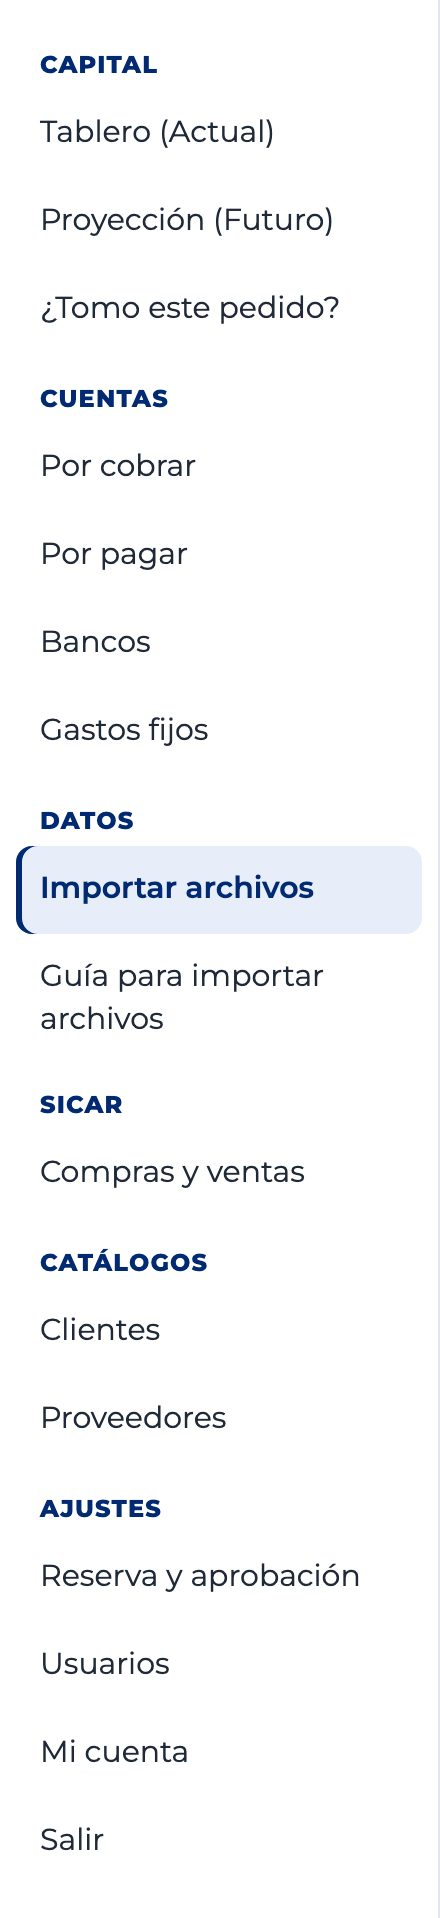
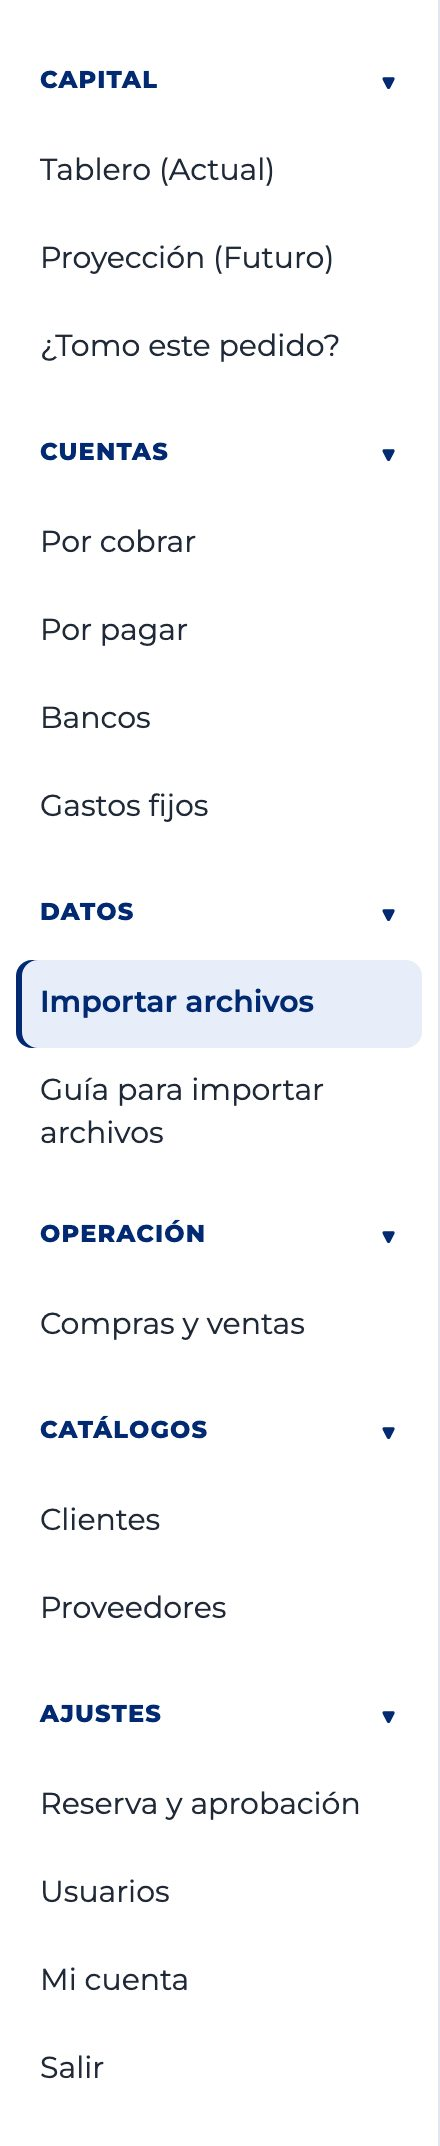
chore(forzza): drop 'Compatible con SICAR' badge; menu group SICAR renamed 'Operación'

diff --git a/verticals/forzza/public/app.js b/verticals/forzza/public/app.js
@@ -211,7 +211,7 @@
     ['grp', 'Capital'], ['tablero', 'Tablero (Actual)'], ['proyeccion', 'Proyección (Futuro)'], ['simular', '¿Tomo este pedido?'],
     ['grp', 'Cuentas'], ['cxc', 'Por cobrar'], ['cxp', 'Por pagar'], ['bancos', 'Bancos'], ['fijos', 'Gastos fijos'],
     ['grp', 'Datos'], ['cargar', 'Importar archivos'], ['url:guia-carga.html', 'Guía para importar archivos'],
-    ['grp', 'SICAR'], ['sicar_resumen', 'Compras y ventas'],
+    ['grp', 'Operación'], ['sicar_resumen', 'Compras y ventas'],
     ['grp', 'Catálogos'], ['clientes', 'Clientes'], ['proveedores', 'Proveedores'],
     ['grp', 'Ajustes'], ['ajustes', 'Reserva y aprobación'], ['usuarios', 'Usuarios'], ['cuenta', 'Mi cuenta']
   ];
@@ -239,7 +239,7 @@
   }
   function shell() {
     $app.innerHTML = `<header class="top"><button class="burger" id="burger" aria-label="Ocultar el menú" aria-expanded="true" title="Ocultar o mostrar el menú"><span class="bi">☰</span><span class="bd">«</span></button>
-      <div class="brand"><img src="logo-blanco.png" alt="Forzza"><small>Capital</small></div><span class="sicar-badge">Compatible con SICAR</span><div class="sp"></div>
+      <div class="brand"><img src="logo-blanco.png" alt="Forzza"><small>Capital</small></div><div class="sp"></div>
       ${canEdit() ? '<a class="btn small hdr-up" href="#cargar">Importar archivos</a>' : ''}<span class="muted" style="font-size:13px">${esc(S.me.user.name || S.me.user.email)}</span></header>
       <div class="layout"><nav class="side" id="side">${menuHtml()}
         <a href="#" id="salir">Salir</a></nav><main id="main"></main></div>`;
@@ -1014,7 +1014,7 @@
       const app = !f.saldo_app ? 'la app aún no tiene sus facturas' : 'en la app: ' + c$(f.saldo_app) + (f.saldo_app !== f.saldo_sicar ? ' · diferencia ' + c$(f.saldo_app - f.saldo_sicar) : ' · coinciden');
       return kpi(lbl + ' según SICAR', c$(f.saldo_sicar), `${venc}${f.personas} personas · importado ${fmtF(f.corte || String(f.fecha).slice(0, 10))} · ${app}`, f.saldo_app === f.saldo_sicar ? 'ok' : (f.vencido_sicar ? 'bad' : ''));
     };
-    main().innerHTML = `<h1>Compras y ventas (SICAR)</h1><p class="sub">Lo importado de SICAR del ${fmtF(r.desde)} al ${fmtF(r.hasta)}. Solo documentos vigentes; las devoluciones restan.${r.ultima_importacion ? ' Última importación: ' + fmtF(String(r.ultima_importacion).slice(0, 10)) + '.' : ''}</p>
+    main().innerHTML = `<h1>Compras y ventas</h1><p class="sub">Lo importado de tu sistema de ventas (SICAR u otro) del ${fmtF(r.desde)} al ${fmtF(r.hasta)}. Solo documentos vigentes; las devoluciones restan.${r.ultima_importacion ? ' Última importación: ' + fmtF(String(r.ultima_importacion).slice(0, 10)) + '.' : ''}</p>
       ${!r.meses.length && !r.conciliacion.cxc && !r.conciliacion.cxp ? '<div class="note">Aún no hay reportes importados. Ve a <a href="#cargar">Importar archivos</a>.</div>' : ''}
       <div class="grid">${kpi('Ventas', c$(tot('ventas')), 'promedio ' + c$(Math.round(tot('ventas') / n)) + ' al mes')}${kpi('Compras de material', c$(tot('compras')), 'promedio ' + c$(Math.round(tot('compras') / n)) + ' al mes')}
         ${kpi('Gastos (GAS)', c$(tot('gastos')), 'promedio ' + c$(Math.round(tot('gastos') / n)) + ' al mes')}${kpi('Cobrado (abonos)', c$(tot('cobrado')), 'según el reporte de abonos')}

diff --git a/verticals/forzza/sit.js b/verticals/forzza/sit.js
@@ -641,7 +641,7 @@ const hoyMx = () => new Date(Date.now() - 6 * 3600 * 1000).toISOString().slice(0
       const appjs = require('fs').readFileSync(require('path').join(__dirname, 'public', 'app.js'), 'utf8');
       const ti = appjs.indexOf("Lo que te deben y lo que debes"), tn = appjs.indexOf('${hallazgosHtml('), tp = appjs.indexOf('<h2>Próximos 14 días');
       ok('tablero: Neural Findings va entre "Lo que te deben" y "Próximos 14 días"', ti > 0 && tn > ti && tp > tn);
-      ok('menú: "Ingresa a SICAR" quitado; la guía para importar está junto a "Importar archivos"', !/\['sicar_web', 'Ingresa a SICAR'\]/.test(appjs) && appjs.indexOf("'url:guia-carga.html'") > appjs.indexOf("['cargar',") && appjs.indexOf("'url:guia-carga.html'") < appjs.indexOf("['grp', 'SICAR']"));
+      ok('menú: "Ingresa a SICAR" quitado; la guía para importar está junto a "Importar archivos"', !/\['sicar_web', 'Ingresa a SICAR'\]/.test(appjs) && appjs.indexOf("'url:guia-carga.html'") > appjs.indexOf("['cargar',") && appjs.indexOf("'url:guia-carga.html'") < appjs.indexOf("['grp', 'Operación']") && !/Compatible con SICAR|\['grp', 'SICAR'\]/.test(appjs));
       { const keys = ['calif', 'liquidez', 'riesgo', 'flujo', 'cartera', 'concentracion', 'efectivo', 'dias', 'p90', 'minimo', 'montecarlo', 'meses', 'categorias', 'calor', 'conc', 'deben', 'dso', 'dpo', 'hallazgos', 'proximos'];
         ok('tablero: cada indicador tiene su nota explicativa y hay botón de imprimir', keys.every((k) => new RegExp('\\b' + k + ": \\['").test(appjs) && (appjs.includes("tip('" + k + "')") || (['liquidez', 'riesgo', 'flujo', 'cartera', 'concentracion'].includes(k) && appjs.includes('tip(p.clave)')))) && /id="imprimir"/.test(appjs) && /print\(\)/.test(appjs));
         ok('tablero: la parte de la calificación ya no muestra la regla', !/esc\(p\.regla\)/.test(appjs)); }

diff --git a/verticals/forzza/public/app.html b/verticals/forzza/public/app.html
@@ -29,7 +29,6 @@ header.top{position:sticky;top:0;z-index:20;background:var(--navy);color:#fff;bo
 header.top .brand{font-weight:600;letter-spacing:.2px;display:flex;align-items:center;gap:10px;color:#fff}
 header.top .brand img{height:30px;width:auto;display:block}
 
-.sicar-badge{display:inline-flex;align-items:center;gap:6px;font-size:12px;font-weight:600;color:#fff;background:transparent;border:1px solid rgba(255,255,255,.55);border-radius:99px;padding:3px 10px}
 header.top .brand small{font-weight:500;opacity:.85;padding-left:10px;border-left:1px solid rgba(255,255,255,.4)}
 header.top .sp{flex:1}
 .burger{display:none;background:none;border:1px solid rgba(255,255,255,.5);color:#fff;border-radius:8px;width:44px;height:44px;cursor:pointer;font-size:20px}
@@ -128,7 +127,7 @@ body.vista-llena main{max-width:none;display:flex;flex-direction:column}
 .tabs .btn.on{background:var(--soft);border-color:var(--acc);color:var(--acc-d)}
 .empty{padding:18px;text-align:center;color:var(--mut)}
 .grid>.card{margin-bottom:0}.grid{margin-bottom:14px}
-@media (max-width:520px){.sicar-badge,header.top>.muted{display:none}.grid{grid-template-columns:1fr 1fr;gap:8px}.kpi .v{font-size:17px}.grid>.card{padding:10px}}
+@media (max-width:520px){header.top>.muted{display:none}.grid{grid-template-columns:1fr 1fr;gap:8px}.kpi .v{font-size:17px}.grid>.card{padding:10px}}
 </style>
 <style>
 .hero{display:grid;grid-template-columns:300px 1fr;gap:20px;align-items:center}
@@ -149,6 +148,6 @@ body.vista-llena main{max-width:none;display:flex;flex-direction:column}
 </head>
 <body>
 <div id="app"></div>
-<script src="app.js?v=27" defer></script>
+<script src="app.js?v=28" defer></script>
 </body>
 </html>

diff --git a/verticals/forzza/public/guia-carga.html b/verticals/forzza/public/guia-carga.html
@@ -121,7 +121,7 @@ table.t td{border-bottom:1px solid var(--line);padding:8px 10px;vertical-align:t
 
 <div class="box step done"><div class="num" style="background:var(--ok)">7</div><div class="body">
 <h2>Listo: mira tus indicadores</h2>
-<p>Con los archivos cargados se actualizan el <b>Tablero</b>, la <b>Proyección</b>, <b>Por cobrar</b>, <b>Por pagar</b> y <b>Bancos</b>. En <b>SICAR → Compras y ventas</b> verás el margen bruto, el valor del inventario y qué clientes y artículos dejan más utilidad.</p>
+<p>Con los archivos cargados se actualizan el <b>Tablero</b>, la <b>Proyección</b>, <b>Por cobrar</b>, <b>Por pagar</b> y <b>Bancos</b>. En <b>Operación → Compras y ventas</b> verás el margen bruto, el valor del inventario y qué clientes y artículos dejan más utilidad.</p>
 <figure><img src="guia-carga/07-margen.jpg" alt="Margen bruto, valor del inventario y clientes que más utilidad dejan"><figcaption><span class="tag real">Pantalla de la app</span>«Compras y ventas», con datos inventados.</figcaption></figure>
 <p style="margin-top:12px">En «Importar archivos», la columna <b>Último</b> dice cuándo subiste cada reporte. Si sale en amarillo o dice «nunca», ya toca subirlo.</p>
 <figure><img src="guia-carga/03-que-descargar.jpg" alt="Lista de reportes con la fecha de la última carga"><figcaption><span class="tag real">Pantalla de la app</span>La lista «Qué descargar de SICAR».</figcaption></figure>
